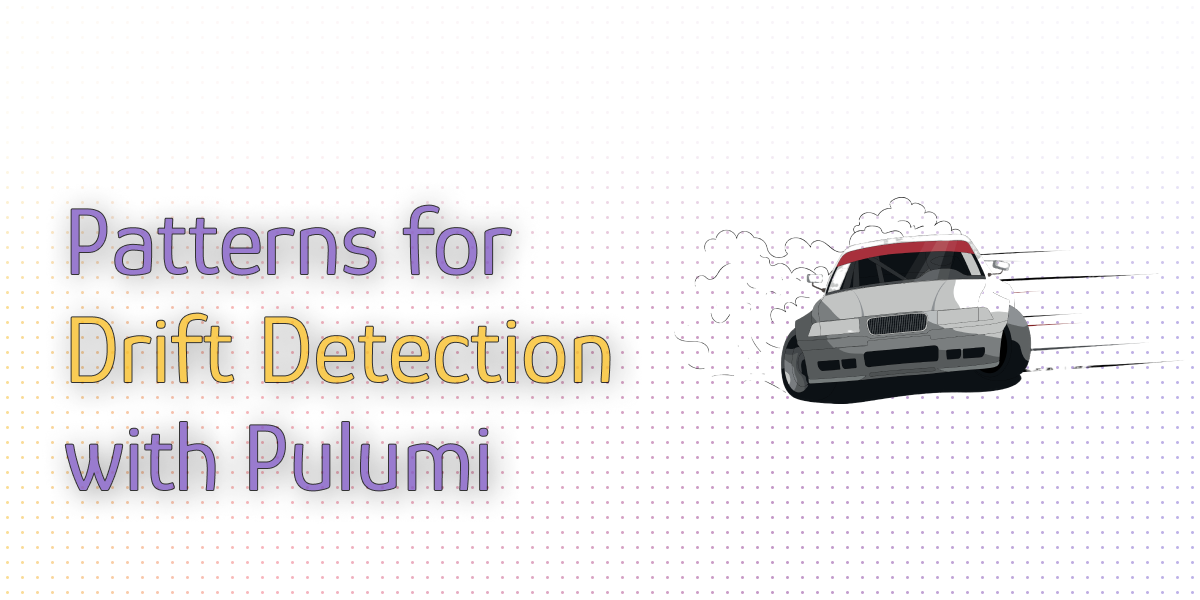
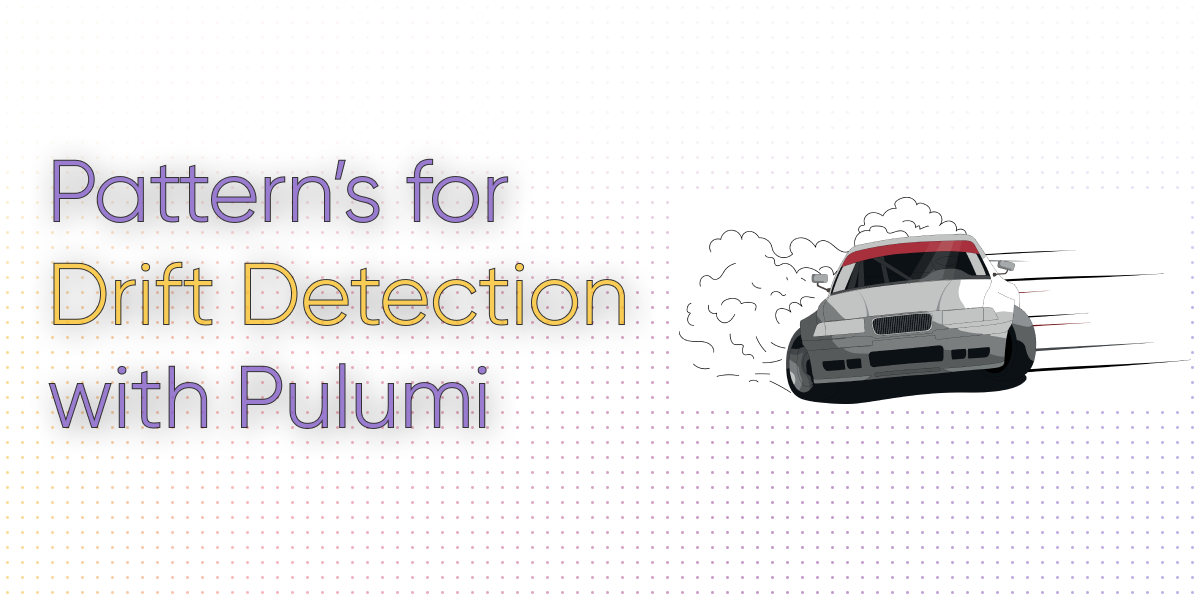
fix: add meta desc and fix font in image

diff --git a/themes/default/content/blog/patterns-drift-detection/index.md b/themes/default/content/blog/patterns-drift-detection/index.md
@@ -11,7 +11,7 @@ date: 2022-06-08T09:26:46-05:00
 # of the content of the post, which is useful for targeting search results or social-media
 # previews. This field is required or the build will fail the linter test.
 # Max length is 160 characters.
-meta_desc: Ever been curious about how to handle drift with your CICD or GitOps workflows? Let David show you how.
+meta_desc: Curious about how to handle drift with your CICD or GitOps workflows? Developer Advocate David shows a couple of patterns for detecting and reconciling this drift with your Pulumi programs.
 
 # The meta_image appears in social-media previews and on the blog home page.
 # A placeholder image representing the recommended format, dimensions and aspect
